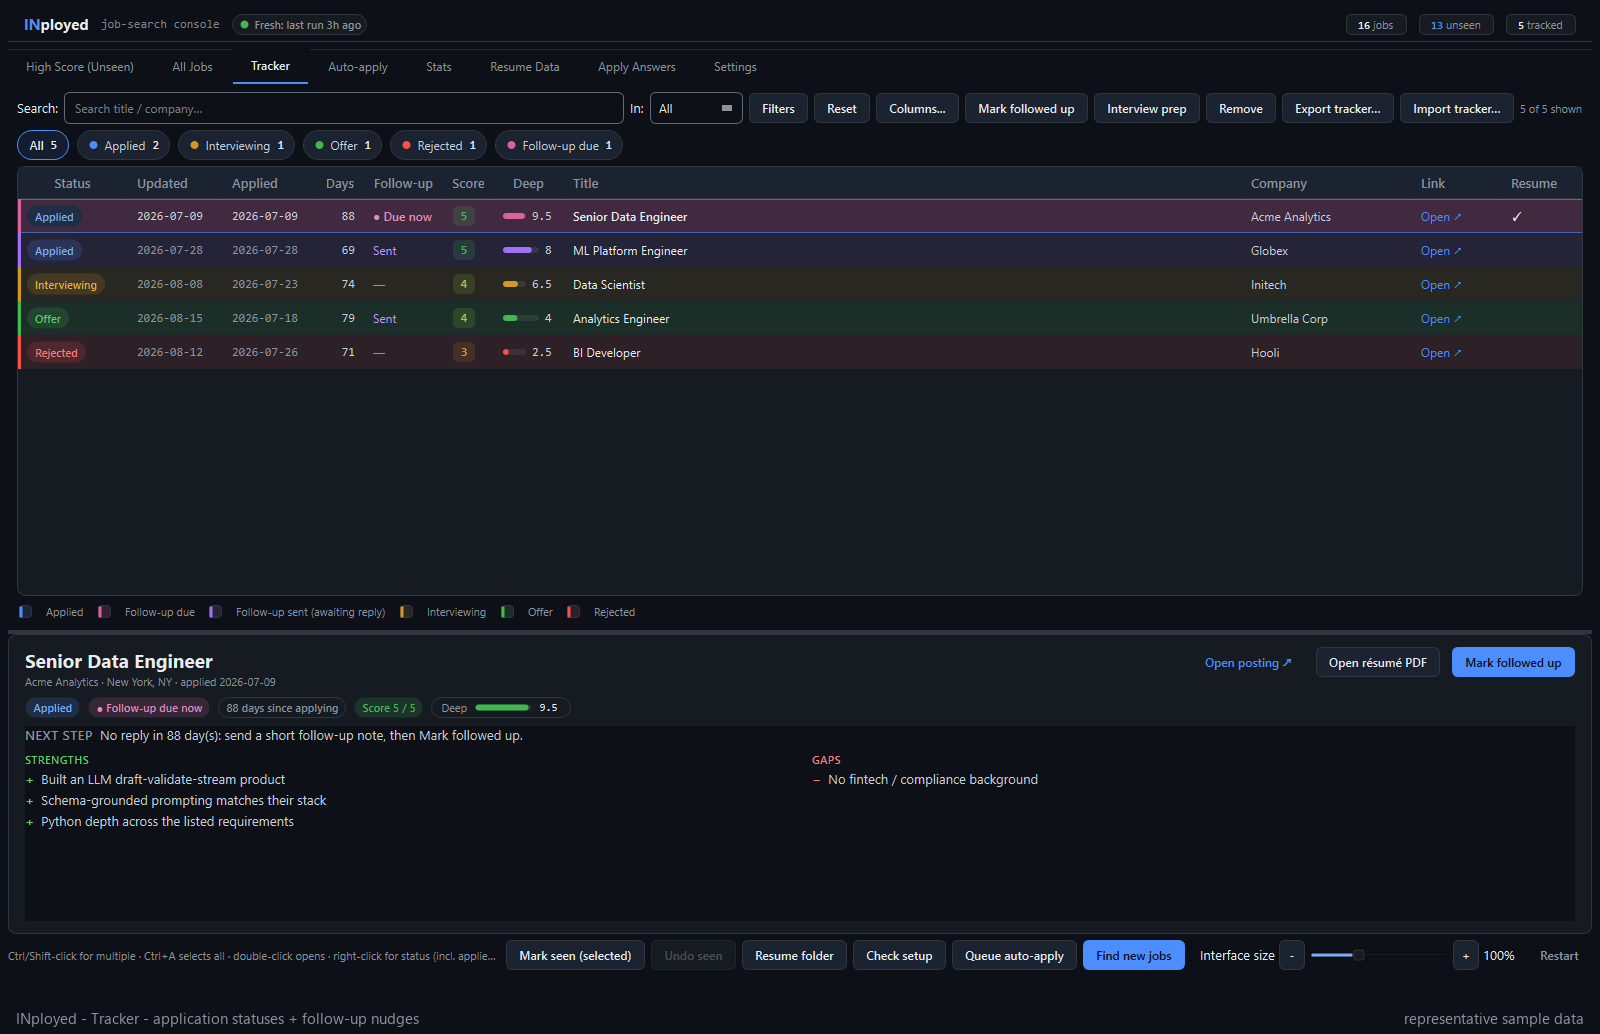
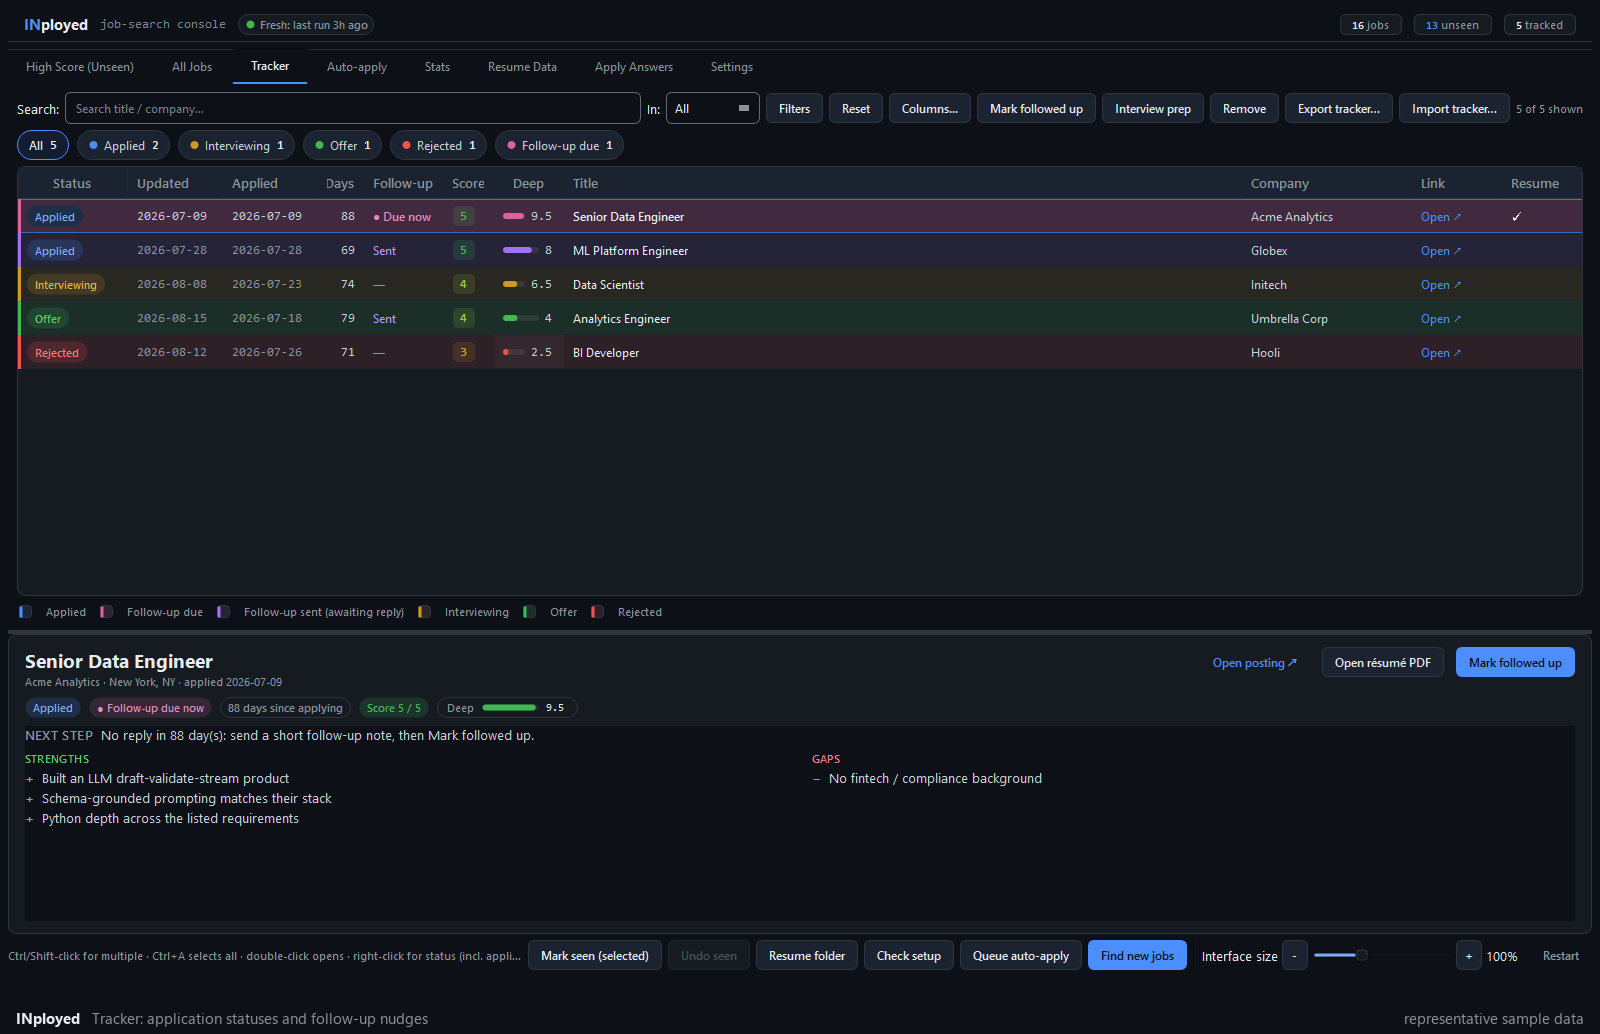
docs(media): set the caption bands off with a colon and re-shoot
Every still and GIF caption used a spaced hyphen as a dash. Captions now
read "Screen: what it shows", the stills' band sets INployed in bold
ahead of the caption the way the GIF band does, and the Tracker caption
says "and" where it said "+". The four stills, the GIF and the social
preview card are re-shot with the same recipe.

diff --git a/scripts/build_walkthrough.py b/scripts/build_walkthrough.py
@@ -153,16 +153,16 @@ def scenes(win):
     typing = "Search filters the ranked list live, without a re-run"
     tailor = "Tailor writes the resume, cover letter and apply sheet for THIS job"
     rows = "Every row carries the model's reason, strengths and gaps"
-    sheet = "apply.md - one self-contained sheet, every bullet traced to your data"
-    atoms = "Resume Data - the atoms every generated bullet must trace back to"
-    queue = "Auto-apply - each queued job's status and difficulty score, 1 to 10"
-    waiting = "Waiting for you - a question your saved answers cannot fill"
+    sheet = "apply.md: one self-contained sheet, every bullet traced to your data"
+    atoms = "Resume Data: the atoms every generated bullet must trace back to"
+    queue = "Auto-apply: each queued job's status and difficulty score, 1 to 10"
+    waiting = "Waiting for you: a question your saved answers cannot fill"
     statuses = "Statuses run applied through interviewing, offer and rejected"
-    answers = "Apply Answers - reusable responses for application forms"
-    knobs = "Settings - Jev and Auto-apply, every option in one form"
+    answers = "Apply Answers: reusable responses for application forms"
+    knobs = "Settings: Jev and Auto-apply, every option in one form"
     return [
         ("High Score (Unseen)", lambda: _pick(win.high_tab, 0),
-         "High Score - what a scored run leaves you to actually look at", 4.0),
+         "High Score: what a scored run leaves you to actually look at", 4.0),
         ("High Score (Unseen)", lambda: _pick(win.high_tab, 1), rows, 2.0),
         ("High Score (Unseen)", lambda: _pick(win.high_tab, 2), rows, 2.0),
         ("High Score (Unseen)", lambda: _pick(win.high_tab, 3), rows, 2.0),
@@ -202,7 +202,7 @@ def scenes(win):
         ("Auto-apply", lambda: win.apply_queue_panel.pause_card.fill_btn.click(),
          "Fill and continue hands your answer to the run, which goes on", 2.8),
         ("Tracker", lambda: _pick(win.tracker_tab, 0),
-         "Tracker - application status, with follow-ups flagged when due", 4.2),
+         "Tracker: application status, with follow-ups flagged when due", 4.2),
         ("Tracker", lambda: _pick(win.tracker_tab, 2), statuses, 1.8),
         ("Tracker", lambda: _pick(win.tracker_tab, 3), statuses, 1.8),
         ("Tracker", lambda: _pick(win.tracker_tab, 4), statuses, 2.4),
@@ -357,7 +357,7 @@ def main() -> int:
           f"{mb:.1f} MB, {holds[0].width}x{holds[0].height}")
     if mb > 10:
         print("WARNING: GitHub caps comment-box video uploads at 10 MB.")
-    print("\nTo publish it (browser only -- there is no API for this):")
+    print("\nTo publish it in the browser (GitHub has no API for this):")
     print("  1. Open any issue or PR comment box on github.com/yib7/INployed.")
     print(f"  2. Drag {OUT.name} into it. GitHub uploads it and inserts a")
     print("     https://github.com/user-attachments/assets/<uuid> URL.")

diff --git a/scripts/build_demo_media.py b/scripts/build_demo_media.py
@@ -40,18 +40,19 @@ DOCS = REPO / "docs"
 BAND_H = 34
 BG = (13, 17, 23)
 FG = (139, 148, 158)
+INK = (230, 237, 243)
 WATERMARK = "representative sample data"
 
 # The README's Screenshots grid: four distinct screens, not four near-duplicates
 # of the same table. (slug in .screenshots, caption band, committed filename)
 STILLS = [
-    ("high_score", "High Score - LLM-ranked postings with a score breakdown",
+    ("high_score", "High Score: LLM-ranked postings with a score breakdown",
      "dashboard.png"),
-    ("auto_apply", "Auto-apply - the queue with difficulty scores, and a question for you",
+    ("auto_apply", "Auto-apply: the queue with difficulty scores, and a question for you",
      "auto-apply.png"),
-    ("resume_data", "Resume Data - the atoms every bullet must trace back to",
+    ("resume_data", "Resume Data: the atoms every bullet must trace back to",
      "resume-data.png"),
-    ("tracker", "Tracker - application statuses + follow-up nudges",
+    ("tracker", "Tracker: application statuses and follow-up nudges",
      "tracker.png"),
 ]
 
@@ -66,8 +67,10 @@ FADE_MS = 40
 GIF_COLORS = 128
 
 
-def _font() -> ImageFont.FreeTypeFont:
-    for name in ("segoeui.ttf", "DejaVuSans.ttf", "arial.ttf"):
+def _font(bold: bool = False) -> ImageFont.FreeTypeFont:
+    names = ("segoeuib.ttf", "DejaVuSans-Bold.ttf", "arialbd.ttf") if bold else (
+        "segoeui.ttf", "DejaVuSans.ttf", "arial.ttf")
+    for name in names:
         try:
             return ImageFont.truetype(name, 15)
         except OSError:
@@ -83,7 +86,11 @@ def _stamp(src: Path, caption: str) -> Image.Image:
     draw = ImageDraw.Draw(out)
     font = _font()
     y = h + BAND_H // 2
-    draw.text((16, y), f"INployed - {caption}", font=font, fill=FG, anchor="lm")
+    # The name in bold, then the caption: the same band the walkthrough GIF uses.
+    bold = _font(bold=True)
+    draw.text((16, y), "INployed", font=bold, fill=INK, anchor="lm")
+    x = 16 + draw.textlength("INployed", font=bold) + 12
+    draw.text((x, y), caption, font=font, fill=FG, anchor="lm")
     draw.text((w - 16, y), WATERMARK, font=font, fill=FG, anchor="rm")
     return out
 
